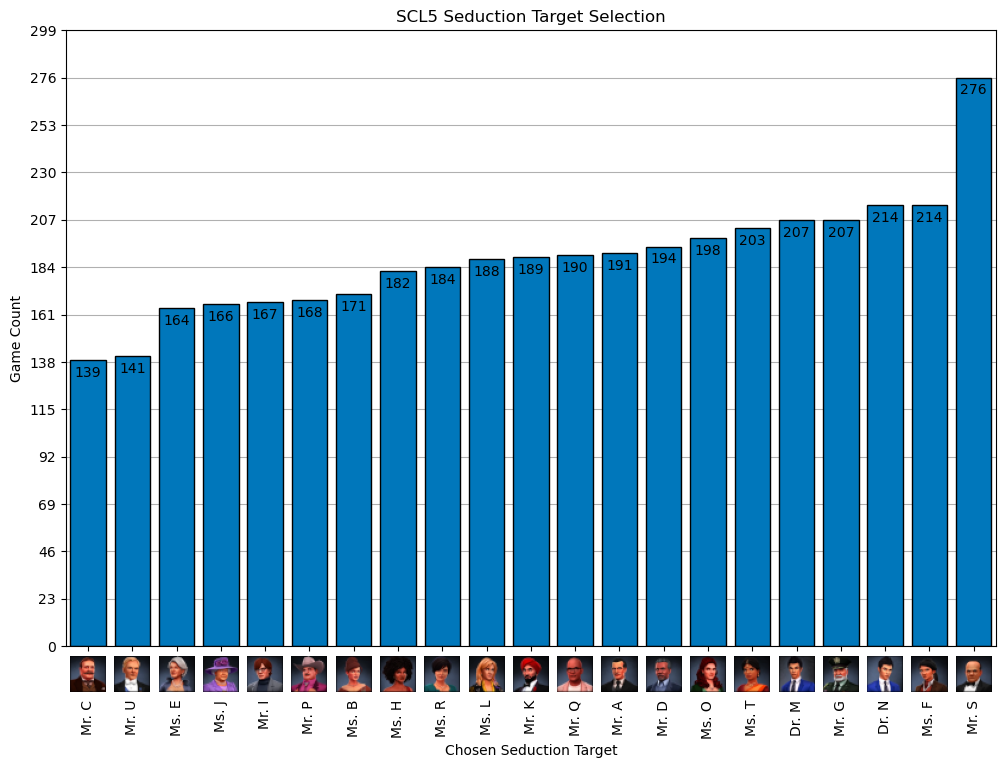
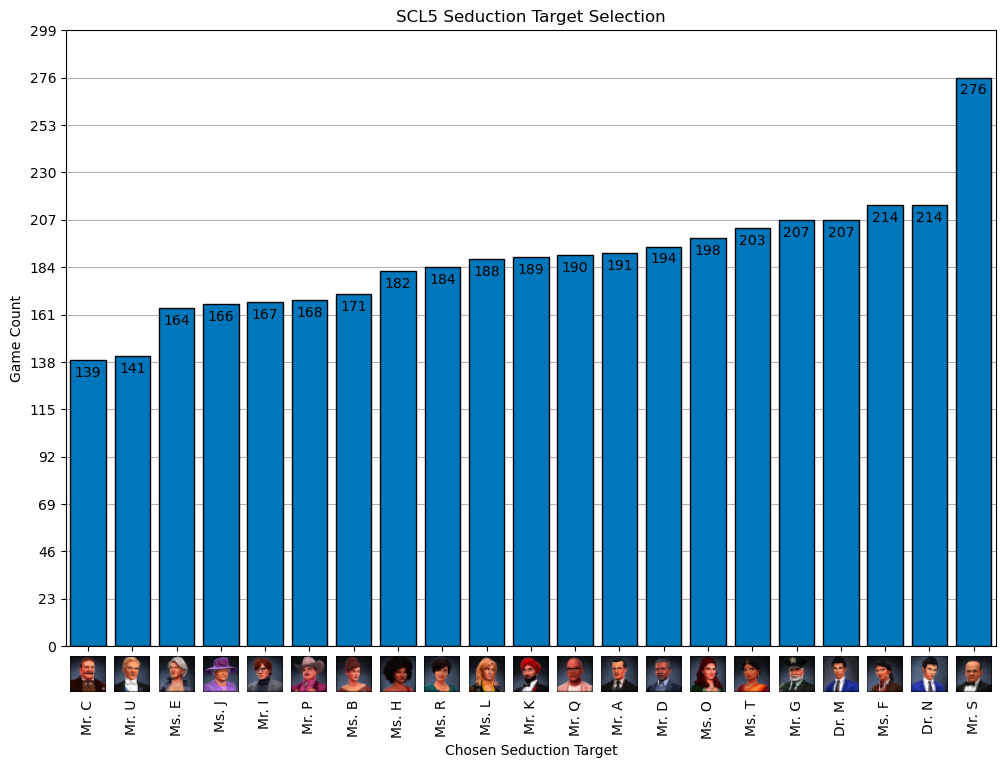
Testing with converting list to sorted set

Changed region(s): [[0.7711, 0.8438, 0.9562, 0.9688]]

diff --git a/triple_agent/reports/generation/plot_utilities.py b/triple_agent/reports/generation/plot_utilities.py
@@ -132,10 +132,15 @@ def create_initial_data_frame(
 ) -> pandas.DataFrame:
     categories = list(data_dictionary.keys())
 
-    stacks = list()
+    data_parts = set()
     for inner_dict in data_dictionary.values():
         for inner_key in inner_dict.keys():
-            stacks.append(inner_key)
+            data_parts.add(inner_key)
+
+    # sorting will provide determinism between runs
+    # just converting set to list was creating slight
+    # variations between the same runs
+    stacks = sorted(list(data_parts))
 
     # Something needs to enumerate all the possibilities so the frame doesn't end up with NaN values in it.
     frame = pandas.DataFrame(
